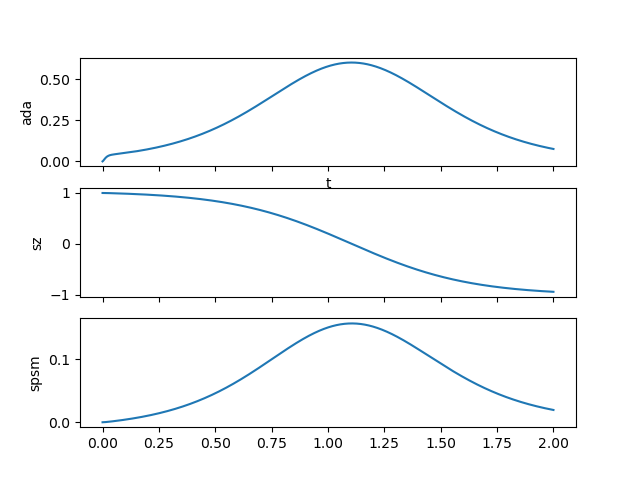
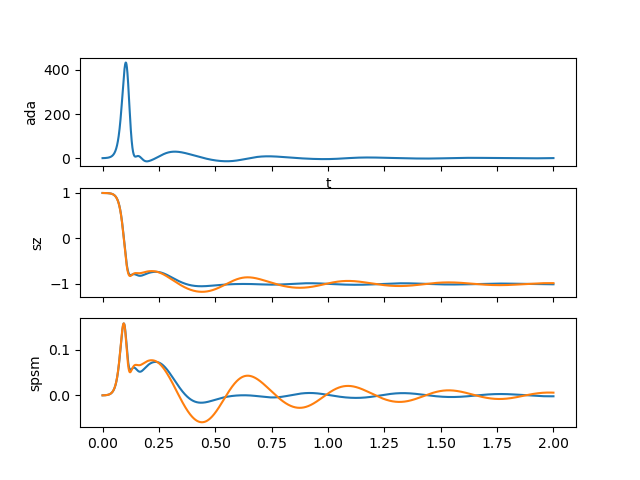
Recording run time

diff --git a/mean_solver.py b/mean_solver.py
@@ -308,24 +308,24 @@ class sys:
         print(end-start)
 
 if __name__ == "__main__":
-    pop_inclass = cp.asarray([100])
-    delta_a = cp.asarray([20])
+    pop_inclass = cp.asarray([1000,1000])
+    delta_a = cp.asarray([20,0])
     delta_c = 0
     gk = 1.6
     theta = cp.pi
     phi = 0
-    cav_decay = 160
+    cav_decay = 100
     spin_decay = 0
     spin_dephase = 0
 
     test_sys = sys(pop_inclass, delta_a, delta_c, gk, theta, phi, 
                  cav_decay, spin_decay, spin_dephase)
     
-    tlist = np.linspace(0,2,int(1e3))
-    F_t = cp.zeros(int(1e3))
+    tlist = np.linspace(0,2,int(1e4))
+    F_t = cp.zeros(int(1e4))
     results = test_sys.solve_constant(tlist)
     Td_theory = delay_time(gk, 100, cav_decay, theta)
-    Td_simulate = ind_where(results[1], 0.0, 0.001)
+    Td_simulate = ind_where(results[1], 0.0, 0.01)
     print(Td_theory, Td_simulate)
 
     fig, ax = plt.subplots(3,1, sharex='col')
